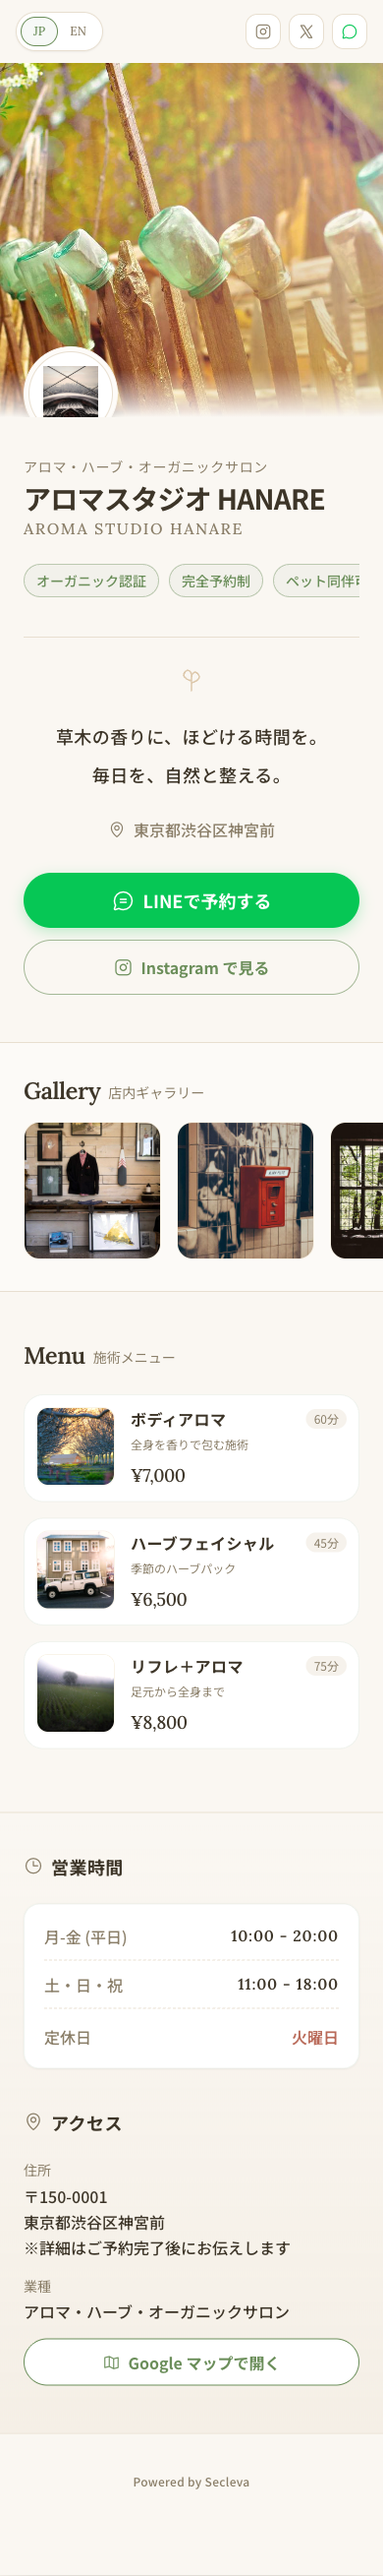
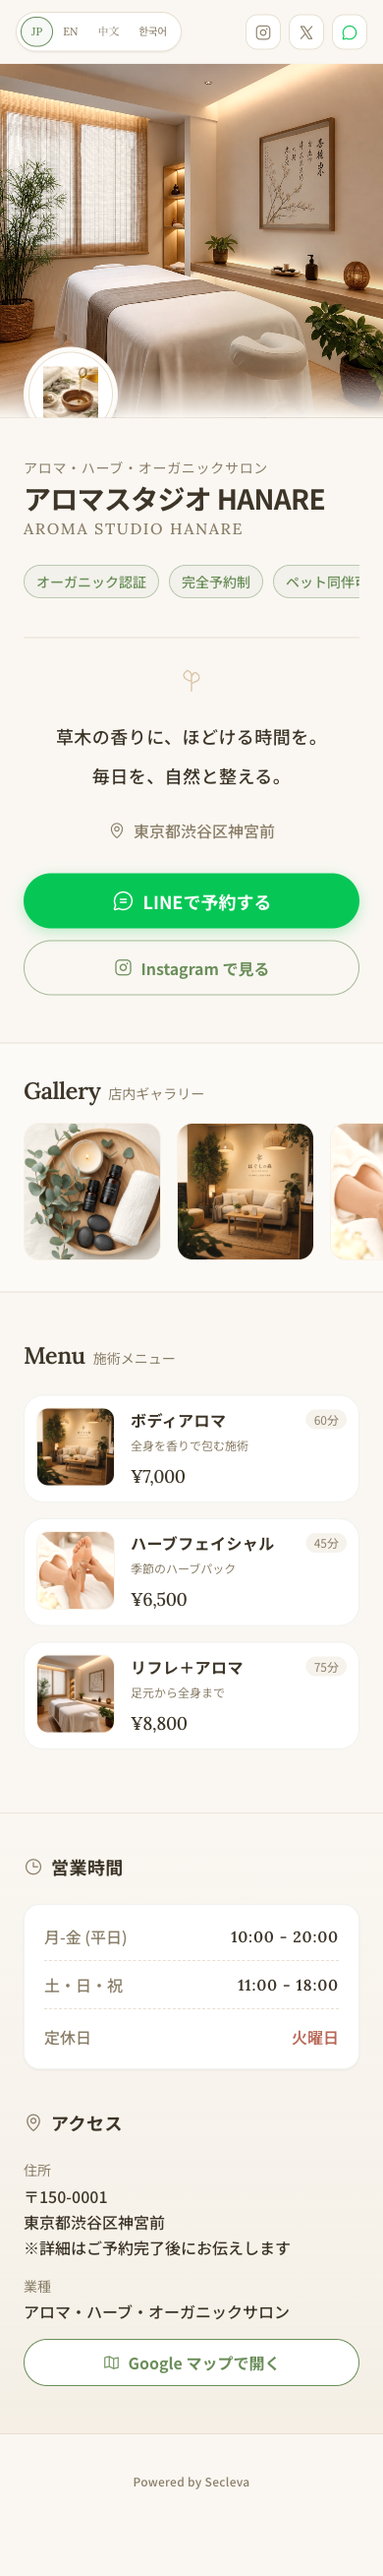
update: T1-T4をマッサージサロン共通画像セットに統一 / T5を飲み屋画像セットに
- branding/dummy/t1〜t5 を削除し branding/dummy/salon/ と /bar/ に再編成
- aidesignerでマッサージサロン5枚（hero/oil-bowl/spa-tray/lounge/foot）を生成
- aidesignerで飲み屋5枚（lounge/whisky/karaoke/cocktail/otsumami）を生成
- T1-T4 全テンプレは同じ salon 画像セットを共有
- T5 は bar 画像セットを使用
- 5テンプレ再キャプチャ済み

diff --git a/shop-page/templates/T3_natural.html b/shop-page/templates/T3_natural.html
@@ -55,12 +55,12 @@
 
         <!-- 2. Main Visual -->
         <section class="relative w-full h-[360px] bg-custom-divider overflow-hidden">
-            <img src="../../branding/dummy/t3/aroma1.jpg" alt="" class="w-full h-full object-cover warm-photo">
+            <img src="../../branding/dummy/salon/01_hero.webp" alt="" class="w-full h-full object-cover warm-photo">
             <div class="absolute -bottom-16 -right-12 w-64 h-64 bg-custom-sub/20 organic-blob mix-blend-multiply blur-xl animate-float-slow pointer-events-none"></div>
             <div class="absolute -bottom-8 -right-4 w-48 h-48 bg-custom-accent/10 organic-blob mix-blend-multiply blur-lg animate-float-slow pointer-events-none" style="animation-delay: 2s;"></div>
             <div class="absolute -bottom-6 left-6 w-24 h-24 rounded-full border border-custom-bg bg-[#FDFBF8] shadow-lg flex items-center justify-center p-1 z-10">
                 <div class="w-full h-full rounded-full border border-custom-divider flex items-center justify-center overflow-hidden bg-white">
-                    <img src="../../branding/dummy/t3/herb1.jpg" alt="" class="w-14 h-14 object-cover warm-photo mix-blend-darken">
+                    <img src="../../branding/dummy/salon/02_oilbowl.webp" alt="" class="w-14 h-14 object-cover warm-photo mix-blend-darken">
                 </div>
             </div>
             <div class="absolute bottom-0 w-full h-12 bg-gradient-to-t from-custom-bg to-transparent pointer-events-none"></div>
@@ -118,12 +118,12 @@
                 <span class="text-sm text-custom-textmuted mb-1">店内ギャラリー</span>
             </div>
             <div class="flex gap-4 px-6 overflow-x-auto hide-scrollbar w-full">
-                <img src="../../branding/dummy/t3/spa1.jpg" alt="" class="w-[140px] h-[140px] rounded-[16px] object-cover flex-shrink-0 warm-photo border border-custom-divider/50">
-                <img src="../../branding/dummy/t3/spa2.jpg" alt="" class="w-[140px] h-[140px] rounded-[16px] object-cover flex-shrink-0 warm-photo border border-custom-divider/50">
-                <img src="../../branding/dummy/t3/nature1.jpg" alt="" class="w-[140px] h-[140px] rounded-[16px] object-cover flex-shrink-0 warm-photo border border-custom-divider/50">
-                <img src="../../branding/dummy/t3/nature2.jpg" alt="" class="w-[140px] h-[140px] rounded-[16px] object-cover flex-shrink-0 warm-photo border border-custom-divider/50">
-                <img src="../../branding/dummy/t3/herb2.jpg" alt="" class="w-[140px] h-[140px] rounded-[16px] object-cover flex-shrink-0 warm-photo border border-custom-divider/50">
-                <img src="../../branding/dummy/t3/flower.jpg" alt="" class="w-[140px] h-[140px] rounded-[16px] object-cover flex-shrink-0 warm-photo border border-custom-divider/50">
+                <img src="../../branding/dummy/salon/03_tray.webp" alt="" class="w-[140px] h-[140px] rounded-[16px] object-cover flex-shrink-0 warm-photo border border-custom-divider/50">
+                <img src="../../branding/dummy/salon/04_lounge.webp" alt="" class="w-[140px] h-[140px] rounded-[16px] object-cover flex-shrink-0 warm-photo border border-custom-divider/50">
+                <img src="../../branding/dummy/salon/05_foot.webp" alt="" class="w-[140px] h-[140px] rounded-[16px] object-cover flex-shrink-0 warm-photo border border-custom-divider/50">
+                <img src="../../branding/dummy/salon/01_hero.webp" alt="" class="w-[140px] h-[140px] rounded-[16px] object-cover flex-shrink-0 warm-photo border border-custom-divider/50">
+                <img src="../../branding/dummy/salon/02_oilbowl.webp" alt="" class="w-[140px] h-[140px] rounded-[16px] object-cover flex-shrink-0 warm-photo border border-custom-divider/50">
+                <img src="../../branding/dummy/salon/03_tray.webp" alt="" class="w-[140px] h-[140px] rounded-[16px] object-cover flex-shrink-0 warm-photo border border-custom-divider/50">
                 <div class="w-2 flex-shrink-0"></div>
             </div>
         </section>
@@ -136,7 +136,7 @@
             </div>
             <div class="space-y-4">
                 <div class="flex gap-4 p-3 rounded-[20px] bg-white border border-custom-accent/10">
-                    <img src="../../branding/dummy/t3/oil.jpg" alt="" class="w-20 h-20 rounded-xl object-cover warm-photo border border-custom-divider/50 flex-shrink-0">
+                    <img src="../../branding/dummy/salon/04_lounge.webp" alt="" class="w-20 h-20 rounded-xl object-cover warm-photo border border-custom-divider/50 flex-shrink-0">
                     <div class="flex flex-col justify-center flex-grow">
                         <div class="flex items-center justify-between">
                             <h4 class="font-bold text-base text-custom-text tracking-wide">ボディアロマ</h4>
@@ -147,7 +147,7 @@
                     </div>
                 </div>
                 <div class="flex gap-4 p-3 rounded-[20px] bg-white border border-custom-accent/10">
-                    <img src="../../branding/dummy/t3/hands.jpg" alt="" class="w-20 h-20 rounded-xl object-cover warm-photo border border-custom-divider/50 flex-shrink-0">
+                    <img src="../../branding/dummy/salon/05_foot.webp" alt="" class="w-20 h-20 rounded-xl object-cover warm-photo border border-custom-divider/50 flex-shrink-0">
                     <div class="flex flex-col justify-center flex-grow">
                         <div class="flex items-center justify-between">
                             <h4 class="font-bold text-base text-custom-text tracking-wide">ハーブフェイシャル</h4>
@@ -158,7 +158,7 @@
                     </div>
                 </div>
                 <div class="flex gap-4 p-3 rounded-[20px] bg-white border border-custom-accent/10">
-                    <img src="../../branding/dummy/t3/aroma2.jpg" alt="" class="w-20 h-20 rounded-xl object-cover warm-photo border border-custom-divider/50 flex-shrink-0">
+                    <img src="../../branding/dummy/salon/01_hero.webp" alt="" class="w-20 h-20 rounded-xl object-cover warm-photo border border-custom-divider/50 flex-shrink-0">
                     <div class="flex flex-col justify-center flex-grow">
                         <div class="flex items-center justify-between">
                             <h4 class="font-bold text-base text-custom-text tracking-wide">リフレ＋アロマ</h4>

diff --git a/shop-page/templates/T1_clean.html b/shop-page/templates/T1_clean.html
@@ -72,9 +72,9 @@
 
         <!-- 2. Main Visual & Logo -->
         <section class="relative w-full aspect-[4/3] bg-gray-50 border-b border-secborder">
-            <img src="../../branding/dummy/t1/white1.jpg" alt="トリートメントルーム" class="w-full h-full object-cover">
+            <img src="../../branding/dummy/salon/01_hero.webp" alt="トリートメントルーム" class="w-full h-full object-cover">
             <div class="absolute -bottom-12 left-5 w-24 h-24 rounded-full border-4 border-secbg bg-white shadow-sm overflow-hidden z-10">
-                <img src="../../branding/dummy/t1/relax2.jpg" alt="サロンロゴ" class="w-full h-full object-cover">
+                <img src="../../branding/dummy/salon/02_oilbowl.webp" alt="サロンロゴ" class="w-full h-full object-cover">
             </div>
         </section>
 
@@ -112,12 +112,12 @@
         <section class="py-6 border-t border-secborder bg-secbg">
             <div class="px-5 mb-4 font-bold text-lg text-sectext">ギャラリー</div>
             <div class="flex overflow-x-auto no-scrollbar gap-3 -mx-5 px-5 pb-2 snap-x snap-mandatory">
-                <img src="../../branding/dummy/t1/relax1.jpg" alt="" class="w-[140px] h-[140px] shrink-0 rounded-xl object-cover border border-secborder snap-start">
-                <img src="../../branding/dummy/t1/clean2.jpg" alt="" class="w-[140px] h-[140px] shrink-0 rounded-xl object-cover border border-secborder snap-start">
-                <img src="../../branding/dummy/t1/white1.jpg" alt="" class="w-[140px] h-[140px] shrink-0 rounded-xl object-cover border border-secborder snap-start">
-                <img src="../../branding/dummy/t1/light1.jpg" alt="" class="w-[140px] h-[140px] shrink-0 rounded-xl object-cover border border-secborder snap-start">
-                <img src="../../branding/dummy/t1/light2.jpg" alt="" class="w-[140px] h-[140px] shrink-0 rounded-xl object-cover border border-secborder snap-start">
-                <img src="../../branding/dummy/t1/clean1.jpg" alt="" class="w-[140px] h-[140px] shrink-0 rounded-xl object-cover border border-secborder snap-start">
+                <img src="../../branding/dummy/salon/03_tray.webp" alt="" class="w-[140px] h-[140px] shrink-0 rounded-xl object-cover border border-secborder snap-start">
+                <img src="../../branding/dummy/salon/04_lounge.webp" alt="" class="w-[140px] h-[140px] shrink-0 rounded-xl object-cover border border-secborder snap-start">
+                <img src="../../branding/dummy/salon/01_hero.webp" alt="" class="w-[140px] h-[140px] shrink-0 rounded-xl object-cover border border-secborder snap-start">
+                <img src="../../branding/dummy/salon/05_foot.webp" alt="" class="w-[140px] h-[140px] shrink-0 rounded-xl object-cover border border-secborder snap-start">
+                <img src="../../branding/dummy/salon/01_hero.webp" alt="" class="w-[140px] h-[140px] shrink-0 rounded-xl object-cover border border-secborder snap-start">
+                <img src="../../branding/dummy/salon/02_oilbowl.webp" alt="" class="w-[140px] h-[140px] shrink-0 rounded-xl object-cover border border-secborder snap-start">
             </div>
         </section>
 
@@ -126,7 +126,7 @@
             <h2 class="font-bold text-lg text-sectext mb-4">メニュー</h2>
             <div class="border border-secborder rounded-2xl bg-white overflow-hidden flex flex-col">
                 <div class="flex gap-3 p-4 border-b border-secborder">
-                    <img src="../../branding/dummy/t1/clean2.jpg" alt="" class="w-[72px] h-[72px] rounded-lg object-cover shrink-0 bg-gray-50 border border-black/5">
+                    <img src="../../branding/dummy/salon/04_lounge.webp" alt="" class="w-[72px] h-[72px] rounded-lg object-cover shrink-0 bg-gray-50 border border-black/5">
                     <div class="flex flex-col justify-between flex-grow pt-0.5">
                         <div class="text-[15px] font-bold text-sectext leading-tight">60分もみほぐし</div>
                         <div class="flex items-end justify-between w-full mt-1">
@@ -136,7 +136,7 @@
                     </div>
                 </div>
                 <div class="flex gap-3 p-4 border-b border-secborder">
-                    <img src="../../branding/dummy/t1/light1.jpg" alt="" class="w-[72px] h-[72px] rounded-lg object-cover shrink-0 bg-gray-50 border border-black/5">
+                    <img src="../../branding/dummy/salon/05_foot.webp" alt="" class="w-[72px] h-[72px] rounded-lg object-cover shrink-0 bg-gray-50 border border-black/5">
                     <div class="flex flex-col justify-between flex-grow pt-0.5">
                         <div class="text-[15px] font-bold text-sectext leading-tight">90分全身アロマ</div>
                         <div class="flex items-end justify-between w-full mt-1">
@@ -146,7 +146,7 @@
                     </div>
                 </div>
                 <div class="flex gap-3 p-4">
-                    <img src="../../branding/dummy/t1/white1.jpg" alt="" class="w-[72px] h-[72px] rounded-lg object-cover shrink-0 bg-gray-50 border border-black/5">
+                    <img src="../../branding/dummy/salon/01_hero.webp" alt="" class="w-[72px] h-[72px] rounded-lg object-cover shrink-0 bg-gray-50 border border-black/5">
                     <div class="flex flex-col justify-between flex-grow pt-0.5">
                         <div class="text-[15px] font-bold text-sectext leading-tight">120分じっくりコース</div>
                         <div class="flex items-end justify-between w-full mt-1">

diff --git a/shop-page/templates/T4_elegant.html b/shop-page/templates/T4_elegant.html
@@ -57,7 +57,7 @@
 
         <!-- 2. Main Visual -->
         <section class="relative w-full aspect-[16/11]">
-            <img src="../../branding/dummy/t4/marble2.jpg" alt="" class="w-full h-full object-cover">
+            <img src="../../branding/dummy/salon/01_hero.webp" alt="" class="w-full h-full object-cover">
             <div class="absolute -bottom-12 left-6 w-24 h-24 bg-white rounded-full border border-gold shadow-hero z-20 flex items-center justify-center p-1">
                 <div class="w-full h-full border-[0.5px] border-gold/30 rounded-full flex items-center justify-center">
                     <span class="font-serif-en text-2xl tracking-tighter text-navy font-medium">M</span>
@@ -106,12 +106,12 @@
                 <div class="flex-grow h-px hairline-gold"></div>
             </div>
             <div class="grid grid-cols-2 gap-3">
-                <div class="aspect-square bg-gray-50 rounded-[4px] hairline-gold overflow-hidden"><img src="../../branding/dummy/t4/luxe2.jpg" alt="" class="w-full h-full object-cover"></div>
-                <div class="aspect-square bg-gray-50 rounded-[4px] hairline-gold overflow-hidden"><img src="../../branding/dummy/t4/candle2.jpg" alt="" class="w-full h-full object-cover"></div>
-                <div class="aspect-square bg-gray-50 rounded-[4px] hairline-gold overflow-hidden"><img src="../../branding/dummy/t4/spa2.jpg" alt="" class="w-full h-full object-cover"></div>
-                <div class="aspect-square bg-gray-50 rounded-[4px] hairline-gold overflow-hidden"><img src="../../branding/dummy/t4/candle1.jpg" alt="" class="w-full h-full object-cover"></div>
-                <div class="aspect-square bg-gray-50 rounded-[4px] hairline-gold overflow-hidden"><img src="../../branding/dummy/t4/silk2.jpg" alt="" class="w-full h-full object-cover"></div>
-                <div class="aspect-square bg-gray-50 rounded-[4px] hairline-gold overflow-hidden"><img src="../../branding/dummy/t4/luxe1.jpg" alt="" class="w-full h-full object-cover"></div>
+                <div class="aspect-square bg-gray-50 rounded-[4px] hairline-gold overflow-hidden"><img src="../../branding/dummy/salon/02_oilbowl.webp" alt="" class="w-full h-full object-cover"></div>
+                <div class="aspect-square bg-gray-50 rounded-[4px] hairline-gold overflow-hidden"><img src="../../branding/dummy/salon/03_tray.webp" alt="" class="w-full h-full object-cover"></div>
+                <div class="aspect-square bg-gray-50 rounded-[4px] hairline-gold overflow-hidden"><img src="../../branding/dummy/salon/04_lounge.webp" alt="" class="w-full h-full object-cover"></div>
+                <div class="aspect-square bg-gray-50 rounded-[4px] hairline-gold overflow-hidden"><img src="../../branding/dummy/salon/05_foot.webp" alt="" class="w-full h-full object-cover"></div>
+                <div class="aspect-square bg-gray-50 rounded-[4px] hairline-gold overflow-hidden"><img src="../../branding/dummy/salon/01_hero.webp" alt="" class="w-full h-full object-cover"></div>
+                <div class="aspect-square bg-gray-50 rounded-[4px] hairline-gold overflow-hidden"><img src="../../branding/dummy/salon/02_oilbowl.webp" alt="" class="w-full h-full object-cover"></div>
             </div>
         </section>
 
@@ -123,7 +123,7 @@
             </div>
             <div class="flex flex-col">
                 <div class="flex items-center py-5 border-b hairline-gold">
-                    <img src="../../branding/dummy/t4/silk1.jpg" alt="" class="w-16 h-16 rounded-[4px] object-cover hairline-gold shrink-0">
+                    <img src="../../branding/dummy/salon/03_tray.webp" alt="" class="w-16 h-16 rounded-[4px] object-cover hairline-gold shrink-0">
                     <div class="ml-4 flex-grow"><h5 class="font-serif-jp text-[15px] text-navy tracking-widest pl-1">シグネチャーフェイシャル</h5></div>
                     <div class="text-right shrink-0">
                         <span class="block text-[11px] text-text-sec tracking-widest mb-1">90分</span>
@@ -131,7 +131,7 @@
                     </div>
                 </div>
                 <div class="flex items-center py-5 border-b hairline-gold">
-                    <img src="../../branding/dummy/t4/marble1.jpg" alt="" class="w-16 h-16 rounded-[4px] object-cover hairline-gold shrink-0">
+                    <img src="../../branding/dummy/salon/04_lounge.webp" alt="" class="w-16 h-16 rounded-[4px] object-cover hairline-gold shrink-0">
                     <div class="ml-4 flex-grow"><h5 class="font-serif-jp text-[15px] text-navy tracking-widest pl-1">ボディトリートメント</h5></div>
                     <div class="text-right shrink-0">
                         <span class="block text-[11px] text-text-sec tracking-widest mb-1">120分</span>
@@ -139,7 +139,7 @@
                     </div>
                 </div>
                 <div class="flex items-center py-5">
-                    <img src="../../branding/dummy/t4/spa1.jpg" alt="" class="w-16 h-16 rounded-[4px] object-cover hairline-gold shrink-0">
+                    <img src="../../branding/dummy/salon/05_foot.webp" alt="" class="w-16 h-16 rounded-[4px] object-cover hairline-gold shrink-0">
                     <div class="ml-4 flex-grow"><h5 class="font-serif-jp text-[15px] text-navy tracking-widest pl-1">VIPフルコース</h5></div>
                     <div class="text-right shrink-0">
                         <span class="block text-[11px] text-text-sec tracking-widest mb-1">180分</span>

diff --git a/shop-page/templates/T2_wamodern.html b/shop-page/templates/T2_wamodern.html
@@ -58,7 +58,7 @@
 
         <!-- 2. Main Visual -->
         <header class="relative w-full aspect-[4/3] bg-paper/20">
-            <img src="../../branding/dummy/t2/wood1.jpg" alt="治療院の入り口" class="w-full h-full object-cover">
+            <img src="../../branding/dummy/salon/01_hero.webp" alt="治療院の入り口" class="w-full h-full object-cover">
             <div class="absolute -bottom-12 left-5 w-24 h-24 rounded-full border-[4px] border-paper bg-kinari flex items-center justify-center z-10">
                 <span class="font-serif text-3xl text-sumi tracking-widest ml-1">結</span>
             </div>
@@ -109,12 +109,12 @@
                 <span class="w-1.5 h-1.5 bg-paper rounded-full"></span> 空間と施術
             </h3>
             <div class="flex overflow-x-auto gap-3 px-5 pb-2">
-                <img src="../../branding/dummy/t2/tea1.jpg" alt="" class="w-[140px] h-[140px] rounded-[8px] object-cover flex-shrink-0">
-                <img src="../../branding/dummy/t2/wabi2.jpg" alt="" class="w-[140px] h-[140px] rounded-[8px] object-cover flex-shrink-0">
-                <img src="../../branding/dummy/t2/stone1.jpg" alt="" class="w-[140px] h-[140px] rounded-[8px] object-cover flex-shrink-0">
-                <img src="../../branding/dummy/t2/tea2.jpg" alt="" class="w-[140px] h-[140px] rounded-[8px] object-cover flex-shrink-0">
-                <img src="../../branding/dummy/t2/stone2.jpg" alt="" class="w-[140px] h-[140px] rounded-[8px] object-cover flex-shrink-0">
-                <img src="../../branding/dummy/t2/zen1.jpg" alt="" class="w-[140px] h-[140px] rounded-[8px] object-cover flex-shrink-0">
+                <img src="../../branding/dummy/salon/02_oilbowl.webp" alt="" class="w-[140px] h-[140px] rounded-[8px] object-cover flex-shrink-0">
+                <img src="../../branding/dummy/salon/03_tray.webp" alt="" class="w-[140px] h-[140px] rounded-[8px] object-cover flex-shrink-0">
+                <img src="../../branding/dummy/salon/04_lounge.webp" alt="" class="w-[140px] h-[140px] rounded-[8px] object-cover flex-shrink-0">
+                <img src="../../branding/dummy/salon/05_foot.webp" alt="" class="w-[140px] h-[140px] rounded-[8px] object-cover flex-shrink-0">
+                <img src="../../branding/dummy/salon/01_hero.webp" alt="" class="w-[140px] h-[140px] rounded-[8px] object-cover flex-shrink-0">
+                <img src="../../branding/dummy/salon/02_oilbowl.webp" alt="" class="w-[140px] h-[140px] rounded-[8px] object-cover flex-shrink-0">
             </div>
         </section>
 
@@ -125,7 +125,7 @@
             <h3 class="font-serif text-[18px] text-sumi mb-8 tracking-widest text-center">施術内容</h3>
             <div class="flex flex-col gap-6">
                 <div class="flex items-center gap-4 relative">
-                    <img src="../../branding/dummy/t2/zen2.jpg" alt="" class="w-[72px] h-[72px] rounded border border-paper/50 object-cover flex-shrink-0">
+                    <img src="../../branding/dummy/salon/03_tray.webp" alt="" class="w-[72px] h-[72px] rounded border border-paper/50 object-cover flex-shrink-0">
                     <div class="flex-1 flex flex-col justify-center">
                         <h4 class="text-[16px] font-sans font-medium text-sumi tracking-wide">全身整体</h4>
                         <p class="text-[12px] text-textsec mt-1 font-sans">60分</p>
@@ -134,7 +134,7 @@
                     <div class="min-w-[70px] text-right"><span class="text-[16px] font-medium font-sans text-sumi tracking-wider">¥6,000</span></div>
                 </div>
                 <div class="flex items-center gap-4 relative pt-6 border-t border-paper/30">
-                    <img src="../../branding/dummy/t2/wood2.jpg" alt="" class="w-[72px] h-[72px] rounded border border-paper/50 object-cover flex-shrink-0">
+                    <img src="../../branding/dummy/salon/04_lounge.webp" alt="" class="w-[72px] h-[72px] rounded border border-paper/50 object-cover flex-shrink-0">
                     <div class="flex-1 flex flex-col justify-center">
                         <h4 class="text-[16px] font-sans font-medium text-sumi tracking-wide">骨盤矯正</h4>
                         <p class="text-[12px] text-textsec mt-1 font-sans">45分</p>
@@ -143,7 +143,7 @@
                     <div class="min-w-[70px] text-right"><span class="text-[16px] font-medium font-sans text-sumi tracking-wider">¥5,500</span></div>
                 </div>
                 <div class="flex items-center gap-4 relative pt-6 border-t border-paper/30">
-                    <img src="../../branding/dummy/t2/wabi1.jpg" alt="" class="w-[72px] h-[72px] rounded border border-paper/50 object-cover flex-shrink-0">
+                    <img src="../../branding/dummy/salon/05_foot.webp" alt="" class="w-[72px] h-[72px] rounded border border-paper/50 object-cover flex-shrink-0">
                     <div class="flex-1 flex flex-col justify-center">
                         <h4 class="text-[16px] font-sans font-medium text-sumi tracking-wide">鍼灸コース</h4>
                         <p class="text-[12px] text-textsec mt-1 font-sans">90分</p>

diff --git a/shop-page/templates/T5_night.html b/shop-page/templates/T5_night.html
@@ -63,7 +63,7 @@
         <!-- 2. Main Visual -->
         <section class="relative w-full h-[450px] z-10 shrink-0">
             <div class="w-full h-full relative overflow-hidden bg-surface">
-                <img src="../../branding/dummy/t5/bar1.jpg" alt="" class="w-full h-full object-cover object-center mood-filter">
+                <img src="../../branding/dummy/bar/01_hero.webp" alt="" class="w-full h-full object-cover object-center mood-filter">
                 <div class="absolute inset-0 bg-gradient-to-t from-obsidian via-obsidian/40 to-transparent"></div>
             </div>
             <div class="absolute -bottom-10 left-5 w-24 h-24 rounded-full border-[1.5px] border-pinkgold shadow-logo-glow overflow-hidden bg-obsidian flex items-center justify-center flex-col z-20">
@@ -121,12 +121,12 @@
                 <i class="ph ph-images"></i> Gallery
             </h3>
             <div class="grid grid-cols-2 gap-3">
-                <div class="aspect-square bg-surface rounded border border-pinkgold/40 gallery-item relative overflow-hidden"><img src="../../branding/dummy/t5/night1.jpg" alt="" class="w-full h-full object-cover mood-filter"></div>
-                <div class="aspect-square bg-surface rounded border border-pinkgold/40 gallery-item relative overflow-hidden"><img src="../../branding/dummy/t5/bottle.jpg" alt="" class="w-full h-full object-cover mood-filter"></div>
-                <div class="aspect-square bg-surface rounded border border-pinkgold/40 gallery-item relative overflow-hidden"><img src="../../branding/dummy/t5/lounge2.jpg" alt="" class="w-full h-full object-cover mood-filter"></div>
-                <div class="aspect-square bg-surface rounded border border-pinkgold/40 gallery-item relative overflow-hidden"><img src="../../branding/dummy/t5/lounge1.jpg" alt="" class="w-full h-full object-cover mood-filter"></div>
-                <div class="aspect-square bg-surface rounded border border-pinkgold/40 gallery-item relative overflow-hidden"><img src="../../branding/dummy/t5/bar2.jpg" alt="" class="w-full h-full object-cover mood-filter"></div>
-                <div class="aspect-square bg-surface rounded border border-pinkgold/40 gallery-item relative overflow-hidden"><img src="../../branding/dummy/t5/night2.jpg" alt="" class="w-full h-full object-cover mood-filter"></div>
+                <div class="aspect-square bg-surface rounded border border-pinkgold/40 gallery-item relative overflow-hidden"><img src="../../branding/dummy/bar/02_bottles.webp" alt="" class="w-full h-full object-cover mood-filter"></div>
+                <div class="aspect-square bg-surface rounded border border-pinkgold/40 gallery-item relative overflow-hidden"><img src="../../branding/dummy/bar/03_karaoke.webp" alt="" class="w-full h-full object-cover mood-filter"></div>
+                <div class="aspect-square bg-surface rounded border border-pinkgold/40 gallery-item relative overflow-hidden"><img src="../../branding/dummy/bar/04_cocktail.webp" alt="" class="w-full h-full object-cover mood-filter"></div>
+                <div class="aspect-square bg-surface rounded border border-pinkgold/40 gallery-item relative overflow-hidden"><img src="../../branding/dummy/bar/05_otsumami.webp" alt="" class="w-full h-full object-cover mood-filter"></div>
+                <div class="aspect-square bg-surface rounded border border-pinkgold/40 gallery-item relative overflow-hidden"><img src="../../branding/dummy/bar/01_hero.webp" alt="" class="w-full h-full object-cover mood-filter"></div>
+                <div class="aspect-square bg-surface rounded border border-pinkgold/40 gallery-item relative overflow-hidden"><img src="../../branding/dummy/bar/02_bottles.webp" alt="" class="w-full h-full object-cover mood-filter"></div>
             </div>
         </section>
 
